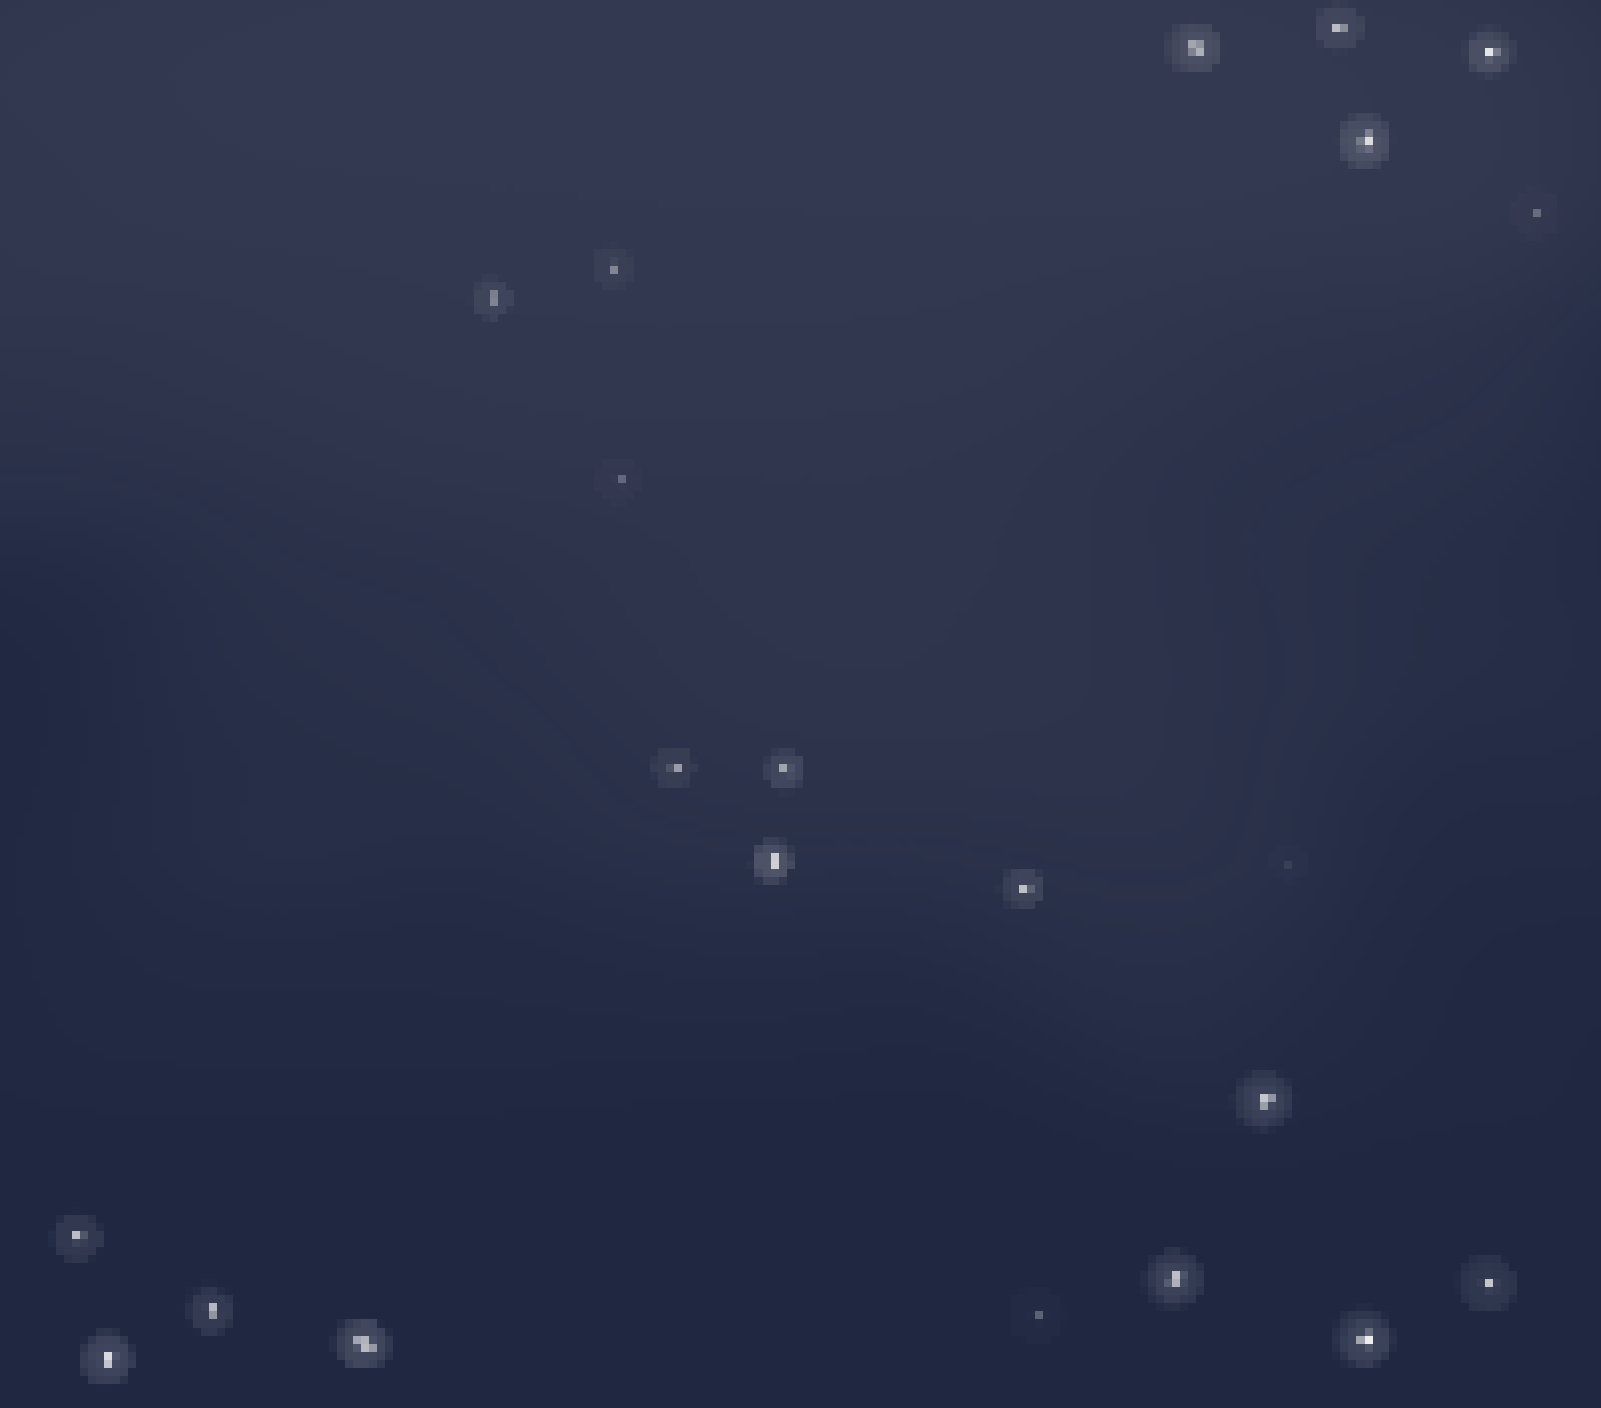
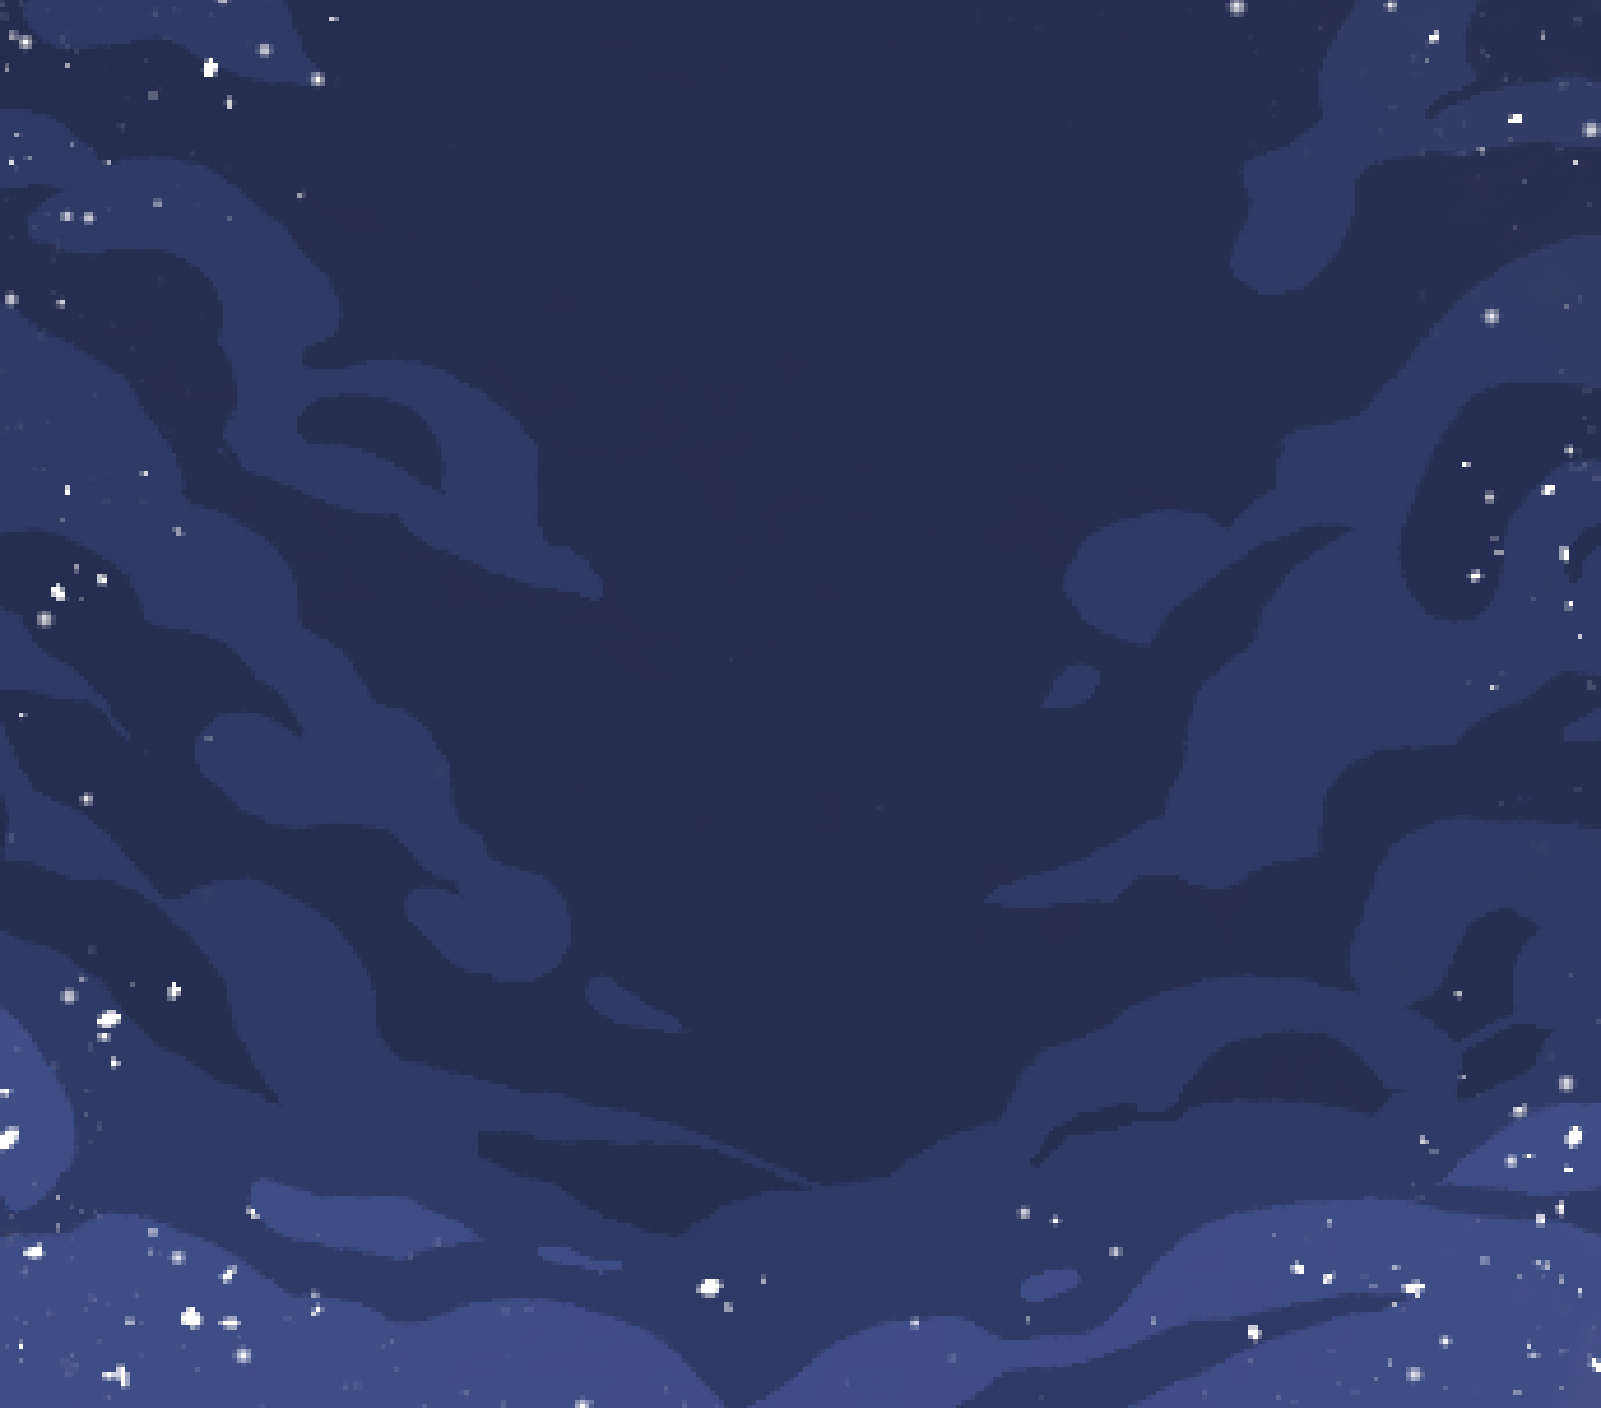
changes/bugfixes: changed starclan background starclan cats now have thoughts again exiled cat deaths will not show up in events fixed a bug where some cats die twice fix typos

diff --git a/scripts/events.py b/scripts/events.py
@@ -164,7 +164,7 @@ class Events(object):
             return
         name = str(cat.name)
         other_cat = choice(list(cat_class.all_cats.values()))
-        while cat == other_cat or other_cat.dead:
+        while cat == other_cat or other_cat.dead or other_cat.exiled:
             other_cat = choice(list(cat_class.all_cats.values()))
         other_name = str(other_cat.name)
         scar_text = []
@@ -522,7 +522,7 @@ class Events(object):
             return
         interactions = []
         other_cat = choice(list(cat_class.all_cats.values()))
-        while cat == other_cat or other_cat.dead:
+        while cat == other_cat or other_cat.dead or other_cat.exiled:
             other_cat = choice(list(cat_class.all_cats.values()))
         name = str(cat.name)
         other_name = str(other_cat.name)
@@ -567,7 +567,7 @@ class Events(object):
         if randint(1, 100) == 1:
             name = str(cat.name)
             other_cat = choice(list(cat_class.all_cats.values()))
-            while cat == other_cat or other_cat.dead or other_cat.status == 'leader':
+            while cat == other_cat or other_cat.dead or other_cat.status == 'leader' or other_cat.exiled:
                 other_cat = choice(list(cat_class.all_cats.values()))
             other_name = str(other_cat.name)
             if cat.status == 'leader':
@@ -667,18 +667,15 @@ class Events(object):
                 if self.at_war:
                     cause_of_death.extend([name + ' was killed by the ' + self.enemy_clan + ' deputy', name + ' was killed by the ' + self.enemy_clan + ' leader'])
                     
-            if cat.status != 'leader':         
-                self.dies(cat)
-                game.cur_events_list.append(choice(cause_of_death) + ' at ' + str(cat.moons) + ' moons old')
-            else:
+            if cat.status == 'leader':
                 game.clan.leader_lives -= 1
-                self.dies(cat)
-                game.cur_events_list.append(choice(cause_of_death) + ' at ' + str(cat.moons) + ' moons old')
+            self.dies(cat)
+            game.cur_events_list.append(choice(cause_of_death) + ' at ' + str(cat.moons) + ' moons old')
             
         elif randint(1, 500) == 1:  # multiple deaths
             name = str(cat.name)
             other_cat = choice(list(cat_class.all_cats.values()))
-            while cat == other_cat or other_cat.dead:
+            while cat == other_cat or other_cat.dead or other_cat.exiled:
                 other_cat = choice(list(cat_class.all_cats.values()))
             other_name = str(other_cat.name)
             cause_of_death = [name + ' and ' + other_name + ' die of greencough', name + ' and ' + other_name + ' die of yellowcough', name + ' and ' + other_name + ' die of whitecough',
@@ -699,45 +696,41 @@ class Events(object):
                 game.cur_events_list.append(choice(cause_of_death))
             elif cat.status == 'leader' and other_cat.status != 'leader':
                 game.clan.leader_lives -= 1
-                game.cur_events_list.append(choice(cause_of_death) + 'and the leader lost a life')
+                game.cur_events_list.append(choice(cause_of_death) + ' and the leader lost a life')
             elif other_cat.status == 'leader' and cat.status != 'leader':
                 game.clan.leader_lives -= 1
-                game.cur_events_list.append(choice(cause_of_death) + 'and the leader lost a life')
+                game.cur_events_list.append(choice(cause_of_death) + ' and the leader lost a life')
                     
         elif randint(1, 5) == 1: #Death with Personalities
             murder_chance = 20
             name = str(cat.name)
             other_cat = choice(list(cat_class.all_cats.values()))
-            while cat == other_cat or other_cat.dead:
+            while cat == other_cat or other_cat.dead or other_cat.exiled:
                 other_cat = choice(list(cat_class.all_cats.values()))
             other_name = str(other_cat.name)
             if cat.trait in ['bloodthirsty', 'ambitious', 'vengeful', 'sneaky', 'sadistic', 'greedy', 'selfish'] and other_cat.status in ['leader', 'deputy']:
                 if cat.status == 'deputy' and other_cat.status == 'leader':
-                    assassination = randint(1, murder_chance - 15)
-                    if assassination == 1:
+                    if randint(1, murder_chance - 15) == 1:
                         cause_of_death = [name + ' murdered ' + other_name + ' in cold blood to take their place', name + ' murdered ' + other_name + ' to take their place and made it look like an accident']
                         game.clan.leader_lives -= 10
                         self.dies(other_cat)
                         game.cur_events_list.append(choice(cause_of_death) + ' at ' + str(other_cat.moons)+ ' moons old')
                 elif cat.status == 'warrior':
-                    assassination = randint(1, murder_chance)
-                    if assassination == 1:
+                    if randint(1, murder_chance - 15) == 1:
                         cause_of_death = [name + ' murdered ' + other_name + ' in cold blood in hopes of taking their place', name + ' murdered ' + other_name + ' in cold blood and made it look accidental in hopes of taking their place']
                         if other_cat == 'leader':
                             game.clan.leader_lives -= 10
                         self.dies(other_cat)
                         game.cur_events_list.append(choice(cause_of_death) + ' at ' + str(other_cat.moons)+ ' moons old')
-            if cat.trait in ['bloodthirsty', 'vengeful', 'sadistic']:
-                assassination = randint(1, murder_chance)
-                if assassination == 1:
+            elif cat.trait in ['bloodthirsty', 'vengeful', 'sadistic']:
+                if randint(1, murder_chance) == 1:
                     cause_of_death = [name + ' murdered ' + other_name + ' in cold blood', name + ' murdered ' + other_name + ' in cold blood and made it look accidental']
                     if other_cat == 'leader':
                         game.clan.leader_lives -= 10
                     self.dies(other_cat)
                     game.cur_events_list.append(choice(cause_of_death) + ' at ' + str(other_cat.moons)+ ' moons old')
-            if cat.status in ['medicine cat', 'medicine cat apprentice'] and cat.trait in ['bloodthirsty', 'vengeful', 'sadistic']:
-                assassination = randint(1, murder_chance)
-                if assassination == 1:
+            elif cat.status in ['medicine cat', 'medicine cat apprentice'] and cat.trait in ['bloodthirsty', 'vengeful', 'sadistic']:
+                if randint(1, murder_chance) == 1:
                     cause_of_death = [name + ' killed ' + other_name + ' by giving them deathberries', name + ' killed ' + other_name + ' by giving them foxglove seeds', name + ' killed ' + other_name + ' by giving them nightshade berries',
                                     name + ' killed ' + other_name + ' by giving them water hemlock', name + ' killed ' + other_name + ' by consciously giving them the wrong herbs']
                     if other_cat == 'leader':

diff --git a/scripts/cats.py b/scripts/cats.py
@@ -308,7 +308,7 @@ class Cat(object):
                     if other_cat.status == 'kitten':
                             starclan_thoughts.extend(['Rejoices with every new kit born to the Clan they still hold so dear'])
                 
-                thought = choice(starclan_thoughts)  # sets current thought to a random applicable thought            
+                thoughts = starclan_thoughts  # sets current thought to a random applicable thought   
                 
             elif not cat.dead:
                 # general individual thoughts
@@ -705,7 +705,7 @@ class Cat(object):
                                          'Is dreading the Clan meeting they must call later today', 'Is finding the responsibility of leadership to be quite the heavy burden',
                                          'Is feeling blessed by StarClan this moon', 'Is making a solemn vow to protect their Clanmates',
                                          'Has been letting their deputy call the shots recently, and is proud of their initiative', 'Called an important Clan meeting recently',
-                                         'Is pondering the next mentors for the kits of the Clan', 'Think they have been hearing the voices of StarClan cats...'
+                                         'Is pondering the next mentors for the kits of the Clan', 'Think they have been hearing the voices of StarClan cats...',
                                          'Is pondering recent dreams they have had... perhaps from StarClan?', 'Recently called a Clan meeting, but forgot what to say'])
                         # checks for specific roles
                         if other_cat.status == 'kitten':
